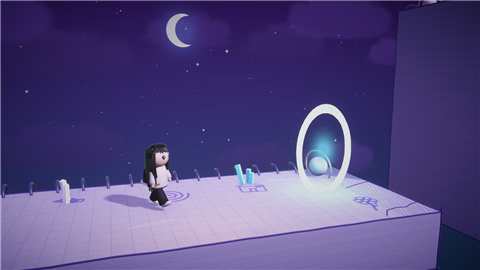
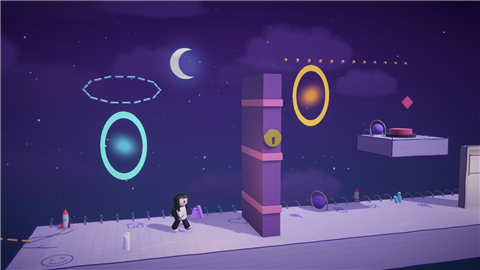
صفحة البوابات: كورة ترسمينها تدخل البوابة وتطيح على زر يفتح الباب، وبوابة برتقالية تمشي على سكة

diff --git a/Assets/Scripts/NewMechanics.cs b/Assets/Scripts/NewMechanics.cs
@@ -10,7 +10,14 @@ public static class NewFeatures
         foreach (Vector4 d in data.dragons) Dragon.Create(root, d, gm);
         foreach (Vector3 p in data.pins) PinRow.Create(root, p, gm);
         foreach (Vector3 f in data.fans) FanZone.Create(root, f, gm);
-        foreach (Vector4 p in data.portals) Portal.Create(root, new Vector3(p.x, p.y, 0f), new Vector3(p.z, p.w, 0f));
+        for (int i = 0; i < data.portals.Count; i++)
+        {
+            Vector4 p = data.portals[i];
+            var portal = Portal.Create(root, new Vector3(p.x, p.y, 0f), new Vector3(p.z, p.w, 0f));
+            foreach (Vector3 m in data.portalMoves)
+                if ((int)m.x == i) portal.MoveExit(m.y, m.z, gm);
+        }
+        foreach (Vector3 g in data.gates) PortalGate.Create(root, g, gm, rng, data);
         foreach (Vector3 peg in data.pegs)
             LevelBuilder.CreatePaperBlock(root, new Block(new Vector3(peg.x, peg.y - 0.3f, 0f), new Vector3(peg.z, 0.6f, 2.2f)), gm, rng, data, false);
         if (data.darkness) BuildDarkness(root, data, gm);
@@ -562,10 +569,22 @@ public class Portal : MonoBehaviour
 {
     static Texture2D swirlTex;
     Vector3 exit;
-    Transform swirlIn, swirlOut;
+    Transform swirlIn, swirlOut, exitRoot;
+    Vector3 exitBase;
+    float moveRange, movePeriod;
+
+    // البوابة البرتقالية تمشي يمين ويسار على سكة (range متر، كل period ثانية)
+    public void MoveExit(float range, float period, GameManager gm)
+    {
+        moveRange = range;
+        movePeriod = period;
+        Material rail = gm.Mat("Portal Rail", new Color(1f, 0.75f, 0.45f), 0.5f);
+        for (float x = 0f; x <= range + 0.01f; x += 0.45f)
+            LevelBuilder.Visual("Rail Dot", PrimitiveType.Sphere, transform.parent, exitBase + new Vector3(x, 1.25f, 0.2f), Vector3.one * 0.12f, rail, false);
+    }
     readonly Dictionary<int, float> cooldown = new Dictionary<int, float>();
 
-    public static void Create(Transform root, Vector3 entry, Vector3 exit)
+    public static Portal Create(Transform root, Vector3 entry, Vector3 exit)
     {
         if (swirlTex == null) swirlTex = NightSky.DotTexture();
         var go = new GameObject("Portal");
@@ -582,12 +601,15 @@ public class Portal : MonoBehaviour
         outGo.transform.SetParent(root, false);
         outGo.transform.position = p.exit;
         p.swirlOut = Ring(outGo.transform, Vector3.zero, new Color(1f, 0.6f, 0.25f));
+        p.exitRoot = outGo.transform;
+        p.exitBase = p.exit;
+        return p;
     }
 
     static Transform Ring(Transform parent, Vector3 local, Color c)
     {
         var mat = new Material(Shader.Find("Universal Render Pipeline/Unlit")) { name = "Portal Ring" };
-        mat.SetColor("_BaseColor", c * 2.4f);
+        mat.SetColor("_BaseColor", c * 1.25f);
         var ring = new GameObject("Ring");
         ring.transform.SetParent(parent, false);
         ring.transform.localPosition = local;
@@ -613,6 +635,11 @@ public class Portal : MonoBehaviour
         swirlOut.localScale = new Vector3(1.5f / s, 1.9f / s, 1f);
         swirlIn.Rotate(0f, 0f, 120f * Time.deltaTime);
         swirlOut.Rotate(0f, 0f, -120f * Time.deltaTime);
+        if (movePeriod > 0f)
+        {
+            exit = exitBase + Vector3.right * (0.5f - 0.5f * Mathf.Cos(Time.time * Mathf.PI * 2f / movePeriod)) * moveRange;
+            exitRoot.position = exit;
+        }
     }
 
     void OnTriggerEnter(Collider other)
@@ -626,7 +653,13 @@ public class Portal : MonoBehaviour
         GameManager gm = GameManager.Instance;
         var rowaida = body.GetComponent<RowaidaController>();
         Vector3 target = exit;
-        if (rowaida == null) target += new Vector3(0.6f, 0f, 0f);
+        if (rowaida == null)
+        {
+            // الشكل يطلع ويطيح على طول (عشان ينزل على الزر)
+            target += new Vector3(0.6f, 0f, 0f);
+            body.linearVelocity = new Vector3(0f, Mathf.Min(body.linearVelocity.y, 0f), 0f);
+            if (body.GetComponent<InkMark>() != null && body.GetComponent<PortalBall>() == null) body.gameObject.AddComponent<PortalBall>();
+        }
         Fx.Sparkle(body.position, new Color(0.5f, 0.85f, 1f), 14);
         body.position = target;
         body.transform.position = target;
@@ -944,4 +977,109 @@ public class Bob : MonoBehaviour
     float seed;
     void Start() { home = transform.localPosition; seed = Random.value * 10f; }
     void Update() => transform.localPosition = home + Vector3.up * Mathf.Sin(Time.time * 1.6f + seed) * 0.12f;
+}
+
+// ---------- البوابة المقفلة والزر ----------
+
+// باب عالي يسد الطريق، وزر فوق رف وراه. أي شكل يطيح على الزر (من البوابة) يفتح الباب
+public class PortalGate : MonoBehaviour
+{
+    float gateX, buttonX, buttonTop, openT = -1f;
+    Transform door, cap;
+    bool holding;
+
+    public bool Open => openT >= 0f;
+
+    public static void Create(Transform root, Vector3 spec, GameManager gm, System.Random rng, LevelData data)
+    {
+        var go = new GameObject("Portal Gate");
+        go.transform.SetParent(root, false);
+        var g = go.AddComponent<PortalGate>();
+        g.gateX = spec.x; g.buttonX = spec.y; g.buttonTop = spec.z;
+
+        Material wood = gm.Mat("Gate Wood", new Color(0.55f, 0.36f, 0.62f), 0.3f);
+        Material band = gm.Mat("Gate Band", new Color(0.98f, 0.55f, 0.72f), 0.4f);
+        Material metal = gm.Mat("Gate Lock", new Color(0.95f, 0.8f, 0.35f), 0.8f, 0.6f);
+        Material red = gm.Mat("Button Cap", new Color(1f, 0.35f, 0.55f), 0.6f);
+        Material baseMat = gm.Mat("Button Base", new Color(0.3f, 0.25f, 0.35f), 0.4f);
+
+        // الباب: له جسم يصطدم، وينزل تحت الأرض لما ينفتح
+        g.door = new GameObject("Gate Door").transform;
+        g.door.SetParent(go.transform, false);
+        g.door.position = new Vector3(g.gateX, 2.6f, 0f);
+        var col = g.door.gameObject.AddComponent<BoxCollider>();
+        col.size = new Vector3(0.6f, 5.2f, 2.4f);
+        LevelBuilder.Visual("Door", PrimitiveType.Cube, g.door, Vector3.zero, new Vector3(0.6f, 5.2f, 2.4f), wood);
+        for (int i = 0; i < 3; i++)
+            LevelBuilder.Visual("Band", PrimitiveType.Cube, g.door, new Vector3(0f, -1.7f + i * 1.7f, -0.05f), new Vector3(0.66f, 0.22f, 2.45f), band);
+        var lockT = LevelBuilder.Visual("Lock", PrimitiveType.Cylinder, g.door, new Vector3(0f, 0.6f, -1.25f), new Vector3(0.55f, 0.06f, 0.55f), metal).transform;
+        lockT.localRotation = Quaternion.Euler(90f, 0f, 0f);
+        LevelBuilder.Visual("Keyhole", PrimitiveType.Cube, g.door, new Vector3(0f, 0.52f, -1.32f), new Vector3(0.08f, 0.22f, 0.02f), baseMat, false);
+
+        // الرف والزر فوقه
+        LevelBuilder.CreatePaperBlock(root, new Block(new Vector3(g.buttonX, g.buttonTop - 0.3f, 0f), new Vector3(2.4f, 0.6f, 2.2f)), gm, rng, data, false);
+        var bt = LevelBuilder.Visual("Button Base", PrimitiveType.Cylinder, go.transform, new Vector3(g.buttonX, g.buttonTop + 0.06f, 0f), new Vector3(1.1f, 0.06f, 1.1f), baseMat);
+        g.cap = LevelBuilder.Visual("Button Cap", PrimitiveType.Cylinder, go.transform, new Vector3(g.buttonX, g.buttonTop + 0.2f, 0f), new Vector3(0.8f, 0.1f, 0.8f), red).transform;
+        // سهم صغير يأشر على الزر
+        var arrow = LevelBuilder.Visual("Arrow", PrimitiveType.Cube, go.transform, new Vector3(g.buttonX, g.buttonTop + 1.2f, -0.3f), new Vector3(0.35f, 0.35f, 0.05f), red, false);
+        arrow.transform.localRotation = Quaternion.Euler(0f, 0f, 45f);
+        arrow.AddComponent<Bob>();
+    }
+
+    void Update()
+    {
+        GameManager gm = GameManager.Instance;
+        if (gm == null) return;
+
+        if (!Open)
+        {
+            // شي من الحبر (مو رويدا) نزل على الزر؟
+            Vector3 c = new Vector3(buttonX, buttonTop + 0.4f, 0f);
+            foreach (Collider hit in Physics.OverlapBox(c, new Vector3(0.6f, 0.35f, 1f)))
+            {
+                if (hit.GetComponentInParent<InkMark>() == null) continue;
+                openT = 0f;
+                cap.localPosition += Vector3.down * 0.1f;
+                gm.Sound.PlayBoing();
+                gm.Sound.PlayRumble(0.4f);
+                Fx.Sparkle(c, new Color(1f, 0.5f, 0.75f), 18);
+                var keep = hit.GetComponentInParent<PortalBall>();
+                if (keep != null) keep.Keep();
+                break;
+            }
+        }
+        else if (openT < 1f)
+        {
+            openT += Time.deltaTime / 0.9f;
+            door.position = new Vector3(gateX, Mathf.Lerp(2.6f, -3.2f, Mathf.SmoothStep(0f, 1f, openT)), 0f);
+            if (Random.value < 0.4f) Fx.Dust(new Vector3(gateX, 0.1f, 0f), 0.3f);
+        }
+
+        // رويدا تستنى عند الباب المقفل
+        RowaidaController rowaida = gm.Rowaida;
+        if (rowaida == null) return;
+        float x = rowaida.transform.position.x;
+        bool wait = !Open && x > gateX - 1.2f && x < gateX - 0.2f && gm.IsPlaying;
+        if (!Open && x > gateX - 14f && x < gateX) CameraFollow.PullRequest = Mathf.Max(CameraFollow.PullRequest, 1f);
+        if (wait) { rowaida.Held = true; rowaida.CarryX = 0f; holding = true; }
+        else if (holding) { rowaida.Held = false; holding = false; }
+    }
+}
+
+// شكل طلع من بوابة: إذا ما نزل على زر، يختفي بعد شوي (عشان ما يسد الطريق)
+public class PortalBall : MonoBehaviour
+{
+    float dieAt;
+    bool kept;
+
+    void Start() => dieAt = Time.time + 2.2f;
+    public void Keep() => kept = true;
+
+    void Update()
+    {
+        if (kept || Time.time < dieAt) return;
+        Fx.Sparkle(transform.position, new Color(0.7f, 0.6f, 1f), 14);
+        if (GameManager.Instance != null) GameManager.Instance.Sound.PlayPoof();
+        Destroy(gameObject);
+    }
 }

diff --git a/Assets/Scripts/LevelData.cs b/Assets/Scripts/LevelData.cs
@@ -135,6 +135,8 @@ public class LevelData
     public List<Vector4> firePits = new List<Vector4>();    // النار: حفر نار (من x، لـ x، كل كم ثانية، تأخير البداية)
     public List<Vector4> dragons = new List<Vector4>();     // النار: تنين على صخرة (x، y، وين ينفخ x، تأخير)
     public List<Vector4> portals = new List<Vector4>();     // البوابات: (دخول x، دخول y، خروج x، خروج y) على سطح الأرض
+    public List<Vector3> portalMoves = new List<Vector3>(); // البوابات: البرتقالية تتحرك (رقم البوابة، كم متر، كل كم ثانية)
+    public List<Vector3> gates = new List<Vector3>();       // البوابات: باب مقفل (x الباب، x الزر، ارتفاع الرف)
     public float maxSpan;                                   // الوادي: الخط أطول من كذا ينكسر تحت رويدا (0 = ما فيه)
     public List<Vector3> pegs = new List<Vector3>();        // الوادي: حجارة طايرة (x، سطحها، عرضها)
     public List<Vector3> pins = new List<Vector3>();        // البالونات: دبابيس معلقة تفجر البالونة (من x، لـ x، ارتفاعها)
@@ -507,35 +509,44 @@ public static class Levels
         return level;
     }
 
-    // صفحة البوابات: البوابة الزرقا توديك للبرتقالية. وحدة فوق الجدار، ووحدة تطلعك فوق حفرة (جهزي جسر تحتها)
+    // صفحة البوابات: 1) البوابة تطلعك فوق جدار  2) ارسمي كورة فوق بوابة طايرة: تطلع ورا الباب وتطيح على الزر
+    // 3) بوابة تطلعك فوق حفرة (جهزي جسر)  4) نفس الكورة، بس البوابة البرتقالية تمشي: انتبهي للوقت
     static LevelData PortalLevel()
     {
-        return new LevelData
+        var level = new LevelData
         {
             title = "صفحة البوابات",
             theme = LevelTheme.Mystic(),
-            subtitle = "البوابة الزرقا توديك للبرتقالية... شوفي وين بتطلعين!",
+            subtitle = "ارسمي كورة فوق البوابة الزرقا... تطيح على الزر وتفتح الباب!",
             spawn = new Vector3(-5f, 1f, 0f),
-            door = new Vector3(51f, 0f, 0f),
-            ink = 18f,
+            door = new Vector3(58f, 0f, 0f),
+            ink = 26f,
             blocks =
             {
                 Page(-7f, 8f),
                 Wall(10f, 18f, 4.5f),       // البوابة الأولى تطلعك فوقه
-                Page(21f, 28f, 4.5f),       // حفرة 3 قبلها
-                Page(35f, 42f),             // البوابة الثانية تطلعك فوق الحفرة اللي قبلها
-                Wall(42f, 44f, 5f),         // جدار عالي: البوابة الثالثة تعديك
-                Page(44f, 54f),
+                Page(18f, 35f),
+                Page(41f, 60f),             // البوابة الثالثة تطلعك فوق الحفرة اللي قبلها
             },
             // (دخول x، دخول y، خروج x، خروج y)
             portals =
             {
                 new Vector4(6.5f, 0f, 11.5f, 4.5f),
-                new Vector4(26f, 4.5f, 33f, 0f),
-                new Vector4(40.5f, 0f, 46f, 0f),
+                new Vector4(23f, 2f, 31.7f, 3.6f),      // للكورة (طايرة فوق راس رويدا)
+                new Vector4(34.2f, 0f, 38f, 1f),
+                new Vector4(44f, 2f, 49.5f, 3.6f),      // للكورة، والخروج يمشي
             },
-            hints = { new HintLine(new Vector3(30.8f, 0.15f, 0f), new Vector3(35.3f, 0.15f, 0f), new Color(1f, 0.6f, 0.25f)) },
+            portalMoves = { new Vector3(3f, 5f, 4f) },
+            gates =
+            {
+                new Vector3(30f, 32.3f, 3f),
+                new Vector3(48.5f, 54.2f, 3f),
+            },
+            hints = { new HintLine(new Vector3(37.2f, 0.9f, 0f), new Vector3(41.4f, 0.1f, 0f), new Color(1f, 0.6f, 0.25f)) },
         };
+        Oval(level, 23f, 4.7f, new Color(0.4f, 0.8f, 1f));
+        Oval(level, 44f, 4.7f, new Color(0.4f, 0.8f, 1f));
+        return level;
     }
 
     // صفحة الوادي: الخط الطويل ينكسر تحت رويدا، فترسمين جسور قصيرة بين حجارة طايرة
